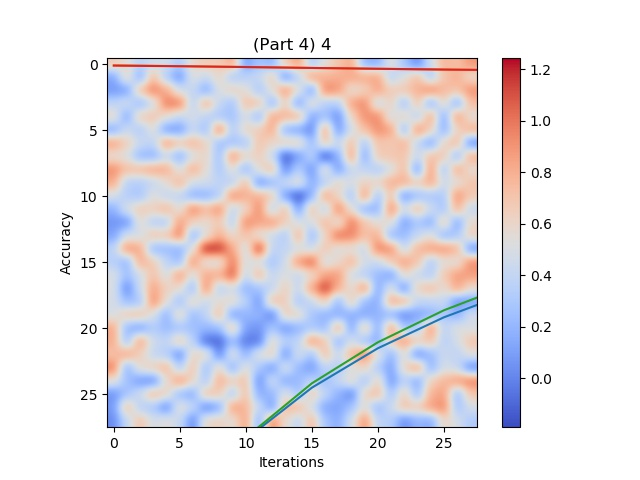
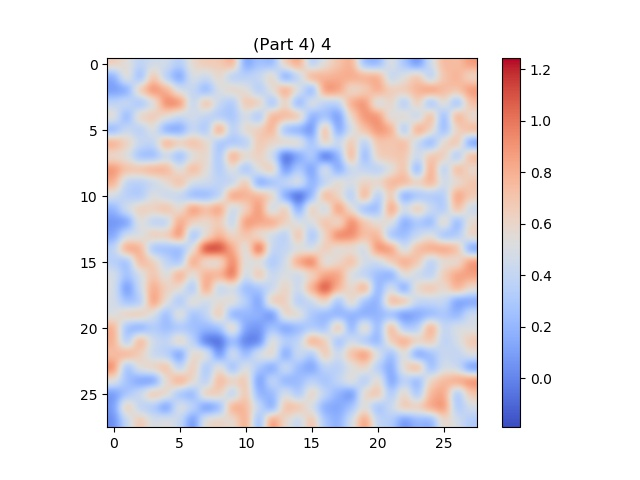
Not much changed

diff --git a/Code/part4.py b/Code/part4.py
@@ -133,8 +133,6 @@ def part4_gradient_descent(X, Y, init_W, alpha, eps, max_iter):
     firstPass = True
     history = list()
     
-    m = Y.shape[1]
-    
     # Do-while...
     while(firstPass or
             (np.linalg.norm(current_W  - previous_W) > eps and 
@@ -265,6 +263,9 @@ def part4_plotLearningCurves(XTrain, YTrain, XVal, YVal, Whistory, history):
     correctVal = []
     costTrain = []
     costVal = []
+    num_iter = [i[0] for i in history]
+    cost = [i[1] for i in history]
+
     for i in range(100):
         outputList = part4_classify(XTrain, YTrain, Whistory[i])
         correctTrain.append(sum([a[2] for a in outputList])/len(outputList))
@@ -276,15 +277,15 @@ def part4_plotLearningCurves(XTrain, YTrain, XVal, YVal, Whistory, history):
         correctVal.append(sum([a[2] for a in outputList]) / len(outputList))
 
     num_iter = [i[0] for i in history]
-    #cost = [i[1] for i in history]
+    cost = [i[1] for i in history]
 
-    plt.plot(num_iter, costTrain)
+    plt.plot(num_iter, cost)
     plt.ylabel('Cost')
     plt.xlabel('Iterations')
     plt.title('Training Set Cost Learning Curve')
     plt.show()
     plt.savefig("../Report/images/Training Set Cost Curve.jpg")
-    plt.gcf().clear()
+    #plt.gcf().clear()
 
     plt.plot(num_iter, correctTrain)
     plt.ylabel('Accuracy')
@@ -292,7 +293,7 @@ def part4_plotLearningCurves(XTrain, YTrain, XVal, YVal, Whistory, history):
     plt.title('Training Set Accuracy Learning Curve')
     plt.show()
     plt.savefig("../Report/images/Training Set Accuracy Curve.jpg")
-    plt.gcf().clear()
+    #plt.gcf().clear()
 
     plt.plot(num_iter, costVal)
     plt.ylabel('Cost')
@@ -300,7 +301,7 @@ def part4_plotLearningCurves(XTrain, YTrain, XVal, YVal, Whistory, history):
     plt.title('Validation Set Cost Learning Curve')
     plt.show()
     plt.savefig("../Report/images/Validation Set Cost Curve.jpg")
-    plt.gcf().clear()
+    #plt.gcf().clear()
 
     plt.plot(num_iter, correctVal)
     plt.ylabel('Accuracy')
